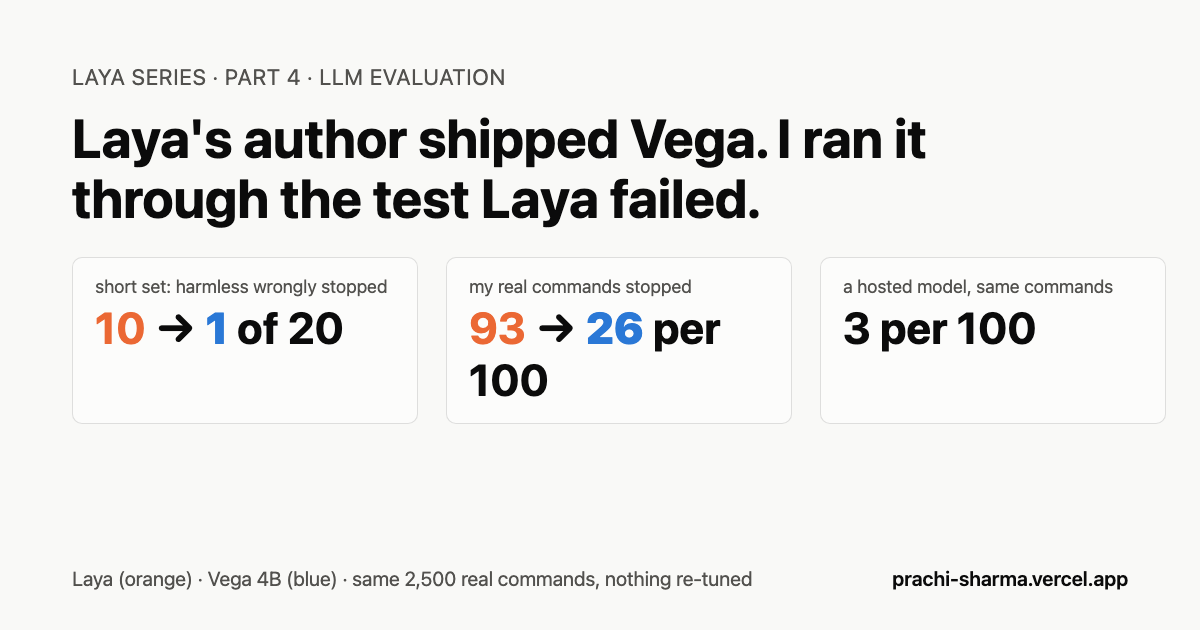
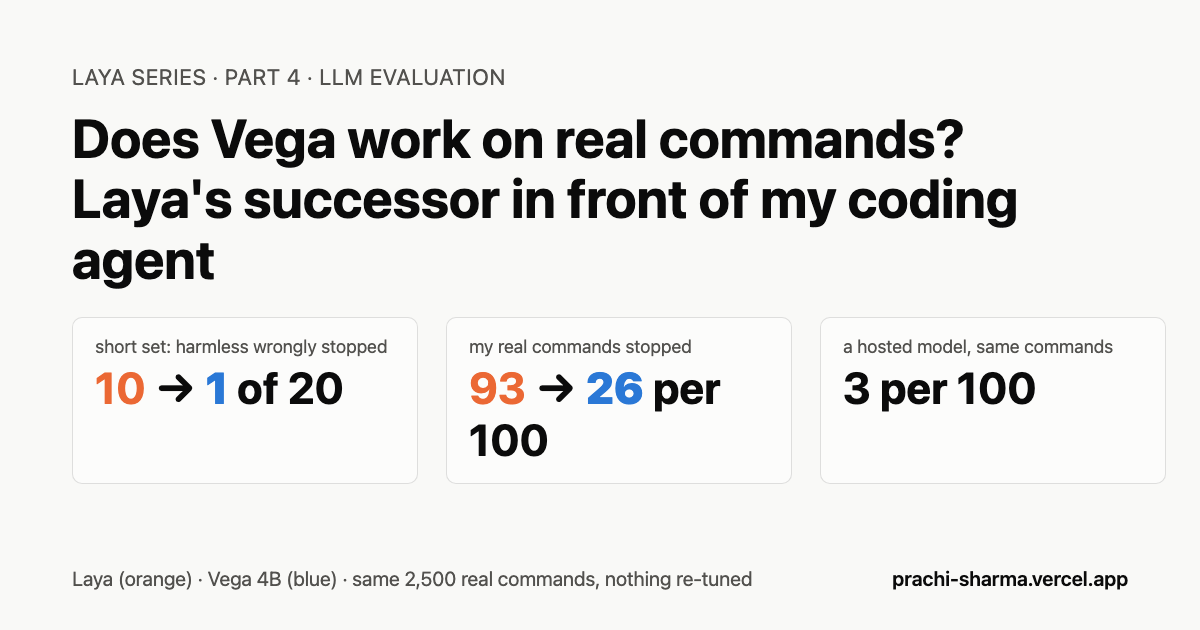
Laya Part 4: new title

diff --git a/blog-vega-vs-laya.html b/blog-vega-vs-laya.html
@@ -3,14 +3,14 @@
   <head>
     <meta charset="UTF-8" />
     <meta name="viewport" content="width=device-width, initial-scale=1.0" />
-    <title>Laya's Author Shipped Vega. I Ran It Through the Test Laya Failed. | Prachi Sharma</title>
+    <title>Does Vega Work on Real Commands? Laya's Successor in Front of My Coding Agent | Prachi Sharma</title>
     <meta
       name="description"
       content="Part 4 of the Laya series: Vega, a new decision model that decides by rolling a ball into a valley, through the same three tests as Laya. Better on every count, still not a guard, and a four-minute head fit that matches a 25-minute fine-tune."
     />
     <meta property="og:type" content="article" />
     <meta property="og:site_name" content="Prachi Sharma" />
-    <meta property="og:title" content="Laya's Author Shipped Vega. I Ran It Through the Test Laya Failed." />
+    <meta property="og:title" content="Does Vega Work on Real Commands? Laya's Successor in Front of My Coding Agent" />
     <meta
       property="og:description"
       content="Vega 4B wrongly stopped 1 of 20 harmless commands on the short set where Laya stopped 10, and 26 of every 100 of my real commands where Laya stopped 93. A hosted model stopped 3. Better than Laya on every count, still not a guard."
@@ -19,7 +19,7 @@
     <meta property="og:image" content="https://prachi-sharma.vercel.app/assets/article/vega-vs-laya-og.png" />
     <meta property="og:image:alt" content="Social preview card: Laya's author shipped Vega; harmless commands wrongly stopped fell from 10 to 1 of 20 on the short set and from 93 to 26 per 100 real commands, against 3 for a hosted model." />
     <meta name="twitter:card" content="summary_large_image" />
-    <meta name="twitter:title" content="Laya's Author Shipped Vega. I Ran It Through the Test Laya Failed." />
+    <meta name="twitter:title" content="Does Vega Work on Real Commands? Laya's Successor in Front of My Coding Agent" />
     <meta
       name="twitter:description"
       content="Vega 4B wrongly stopped 1 of 20 harmless commands on the short set where Laya stopped 10, and 26 of every 100 of my real commands where Laya stopped 93. A hosted model stopped 3."
@@ -71,7 +71,7 @@
           <div class="article-main">
             <p class="article-kicker editable-field" id="article-kicker" contenteditable="false">Experiment · Oct 15 · LLM Evaluation · 15 min read</p>
             <div class="article-title-row">
-              <h2 class="editable-field" id="article-title" contenteditable="false">Laya's Author Shipped Vega. I Ran It Through the Test Laya Failed.</h2>
+              <h2 class="editable-field" id="article-title" contenteditable="false">Does Vega Work on Real Commands? Laya's Successor in Front of My Coding Agent</h2>
               <div class="article-title-actions" aria-label="Article actions">
                 <button type="button" class="article-reaction-button article-reaction-button-compact" aria-pressed="false" aria-label="Love this article">
                   <span class="article-reaction-icon" aria-hidden="true">♥</span>

diff --git a/script.js b/script.js
@@ -1671,7 +1671,7 @@ const content = {
   ],
   writingPosts: [
     {
-      title: "Laya's Author Shipped Vega. I Ran It Through the Test Laya Failed.",
+      title: "Does Vega Work on Real Commands? Laya's Successor in Front of My Coding Agent",
       sentence:
         "Laya series, Part 4: Vega, a new decision model that decides by rolling a ball into a valley, through the same three tests as Laya: 50 short commands, 2,500 real ones, 400 labelled ones. Then its four-minute head fit and the author's adapter against Laya's full fine-tune.",
       href: "./blog-vega-vs-laya.html",
